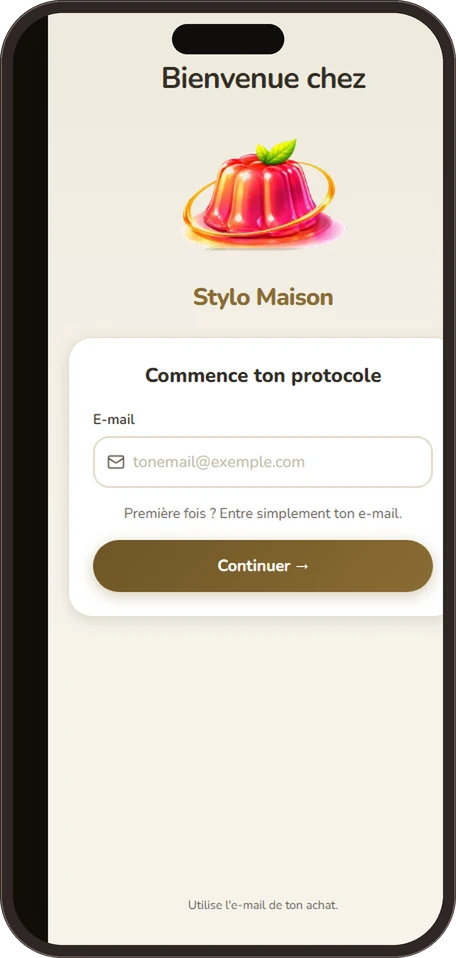
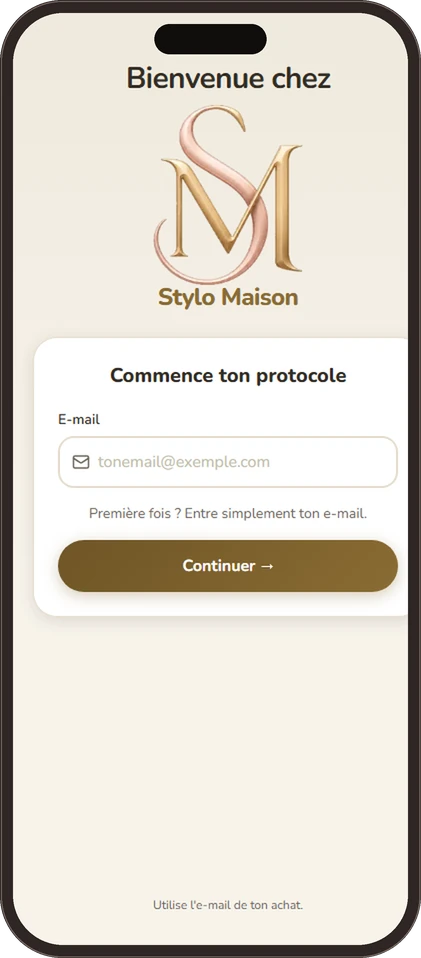
feat(hero): mockup regenerado com a marca nova no app
A tela do app dentro do mockup ainda mostrava a gelatina — era o proprio app que
a exibia. Com a marca nova em producao (stylomaisonapp.vercel.app, deploy
1ec666d), recapturei a tela e refiz o mockup.

A pagina e o aparelho dentro dela agora mostram o MESMO monograma. Nao ha mais
nenhuma gelatina na operacao francesa: nem nas sales pages, nem no app, nem nos
icones do PWA.

Recorte ajustado: o app tem moldura propria (--app-frame-width 430px) e a captura
trazia uma faixa escura a esquerda; a area util e detectada pela primeira coluna
clara. 421x958, 23 KB.

102 links internos, 0 quebrados. Renderizado e conferido.

diff --git a/accelerateur/index.html b/accelerateur/index.html
@@ -194,7 +194,7 @@
     <h1>Ton protocole de 30 jours, dans une seule application.</h1>
     <div class="deck">Accélérateur Intestinal 7X réunit les recettes, les habitudes et les guides dans un plan quotidien simple à suivre — pas à pas, sans complications.</div>
     <div class="device-stage">
-      <img class="device-img" src="img/app-iphone-fr.webp" alt="Accélérateur Intestinal 7X sur un iPhone : ta mission du jour et la recette" width="456" height="958">
+      <img class="device-img" src="img/app-iphone-fr.webp" alt="Accélérateur Intestinal 7X sur un iPhone : ta mission du jour et la recette" width="421" height="958">
     </div>
     <a href="https://www.checkout-ds24.com/answer/yes?template=light" class="cta">Ajouter à ma commande — 39 €</a>
       <a href="https://www.digistore24.com/answer/no" class="cta-decline">Non merci — continuer sans cette offre</a>

diff --git a/lotion/index.html b/lotion/index.html
@@ -194,7 +194,7 @@
     <h1>Ton protocole de 30 jours, dans une seule application.</h1>
     <div class="deck">Lotion Anti-Relâchement réunit les recettes, les habitudes et les guides dans un plan quotidien simple à suivre — pas à pas, sans complications.</div>
     <div class="device-stage">
-      <img class="device-img" src="img/app-iphone-fr.webp" alt="Lotion Anti-Relâchement sur un iPhone : ta mission du jour et la recette" width="456" height="958">
+      <img class="device-img" src="img/app-iphone-fr.webp" alt="Lotion Anti-Relâchement sur un iPhone : ta mission du jour et la recette" width="421" height="958">
     </div>
     <a href="https://www.checkout-ds24.com/answer/yes?template=light" class="cta">Ajouter à ma commande — 57 €</a>
       <a href="https://www.digistore24.com/answer/no" class="cta-decline">Non merci — continuer sans cette offre</a>

diff --git a/menopause/index.html b/menopause/index.html
@@ -194,7 +194,7 @@
     <h1>Ton protocole de 30 jours, dans une seule application.</h1>
     <div class="deck">NexGen Ménopause réunit les recettes, les habitudes et les guides dans un plan quotidien simple à suivre — pas à pas, sans complications.</div>
     <div class="device-stage">
-      <img class="device-img" src="img/app-iphone-fr.webp" alt="NexGen Ménopause sur un iPhone : ta mission du jour et la recette" width="456" height="958">
+      <img class="device-img" src="img/app-iphone-fr.webp" alt="NexGen Ménopause sur un iPhone : ta mission du jour et la recette" width="421" height="958">
     </div>
     <a href="https://www.checkout-ds24.com/answer/yes?template=light" class="cta">Ajouter à ma commande — 47 €</a>
       <a href="https://www.digistore24.com/answer/no" class="cta-decline">Non merci — continuer sans cette offre</a>

diff --git a/app/index.html b/app/index.html
@@ -196,7 +196,7 @@ digistorePromocode( { "product_id": {{PRODUCT_ID}}, "adjust_domain": true } );
     <h1>Ton protocole de 30 jours, dans une seule application.</h1>
     <div class="deck">Stylo Maison App réunit les recettes, les habitudes et les guides dans un plan quotidien simple à suivre — pas à pas, sans complications.</div>
     <div class="device-stage">
-      <img class="device-img" src="img/app-iphone-fr.webp" alt="Stylo Maison App sur un iPhone : ta mission du jour et la recette" width="456" height="958">
+      <img class="device-img" src="img/app-iphone-fr.webp" alt="Stylo Maison App sur un iPhone : ta mission du jour et la recette" width="421" height="958">
     </div>
     <a href="https://www.checkout-ds24.com/product/{{PRODUCT_ID}}" class="cta">Obtenir l'accès — 37 €</a>
     <div class="trust">
